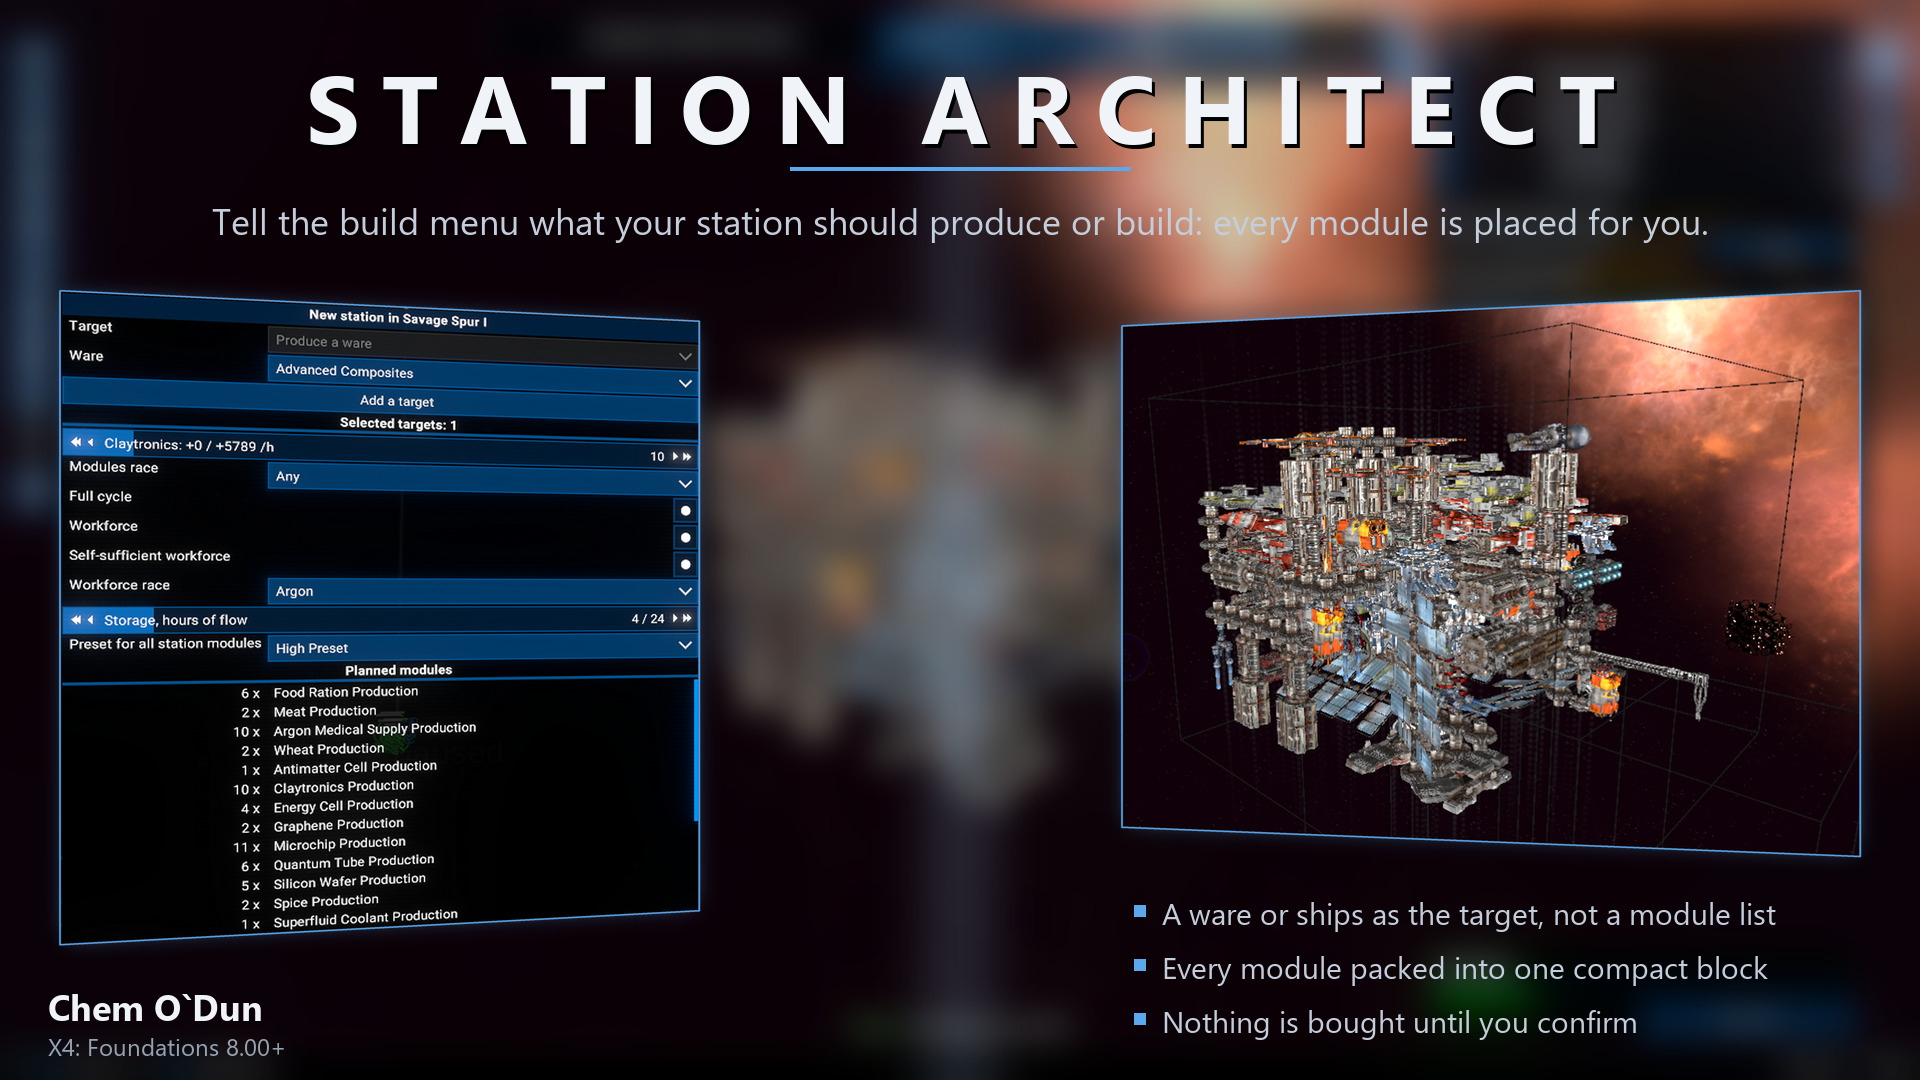
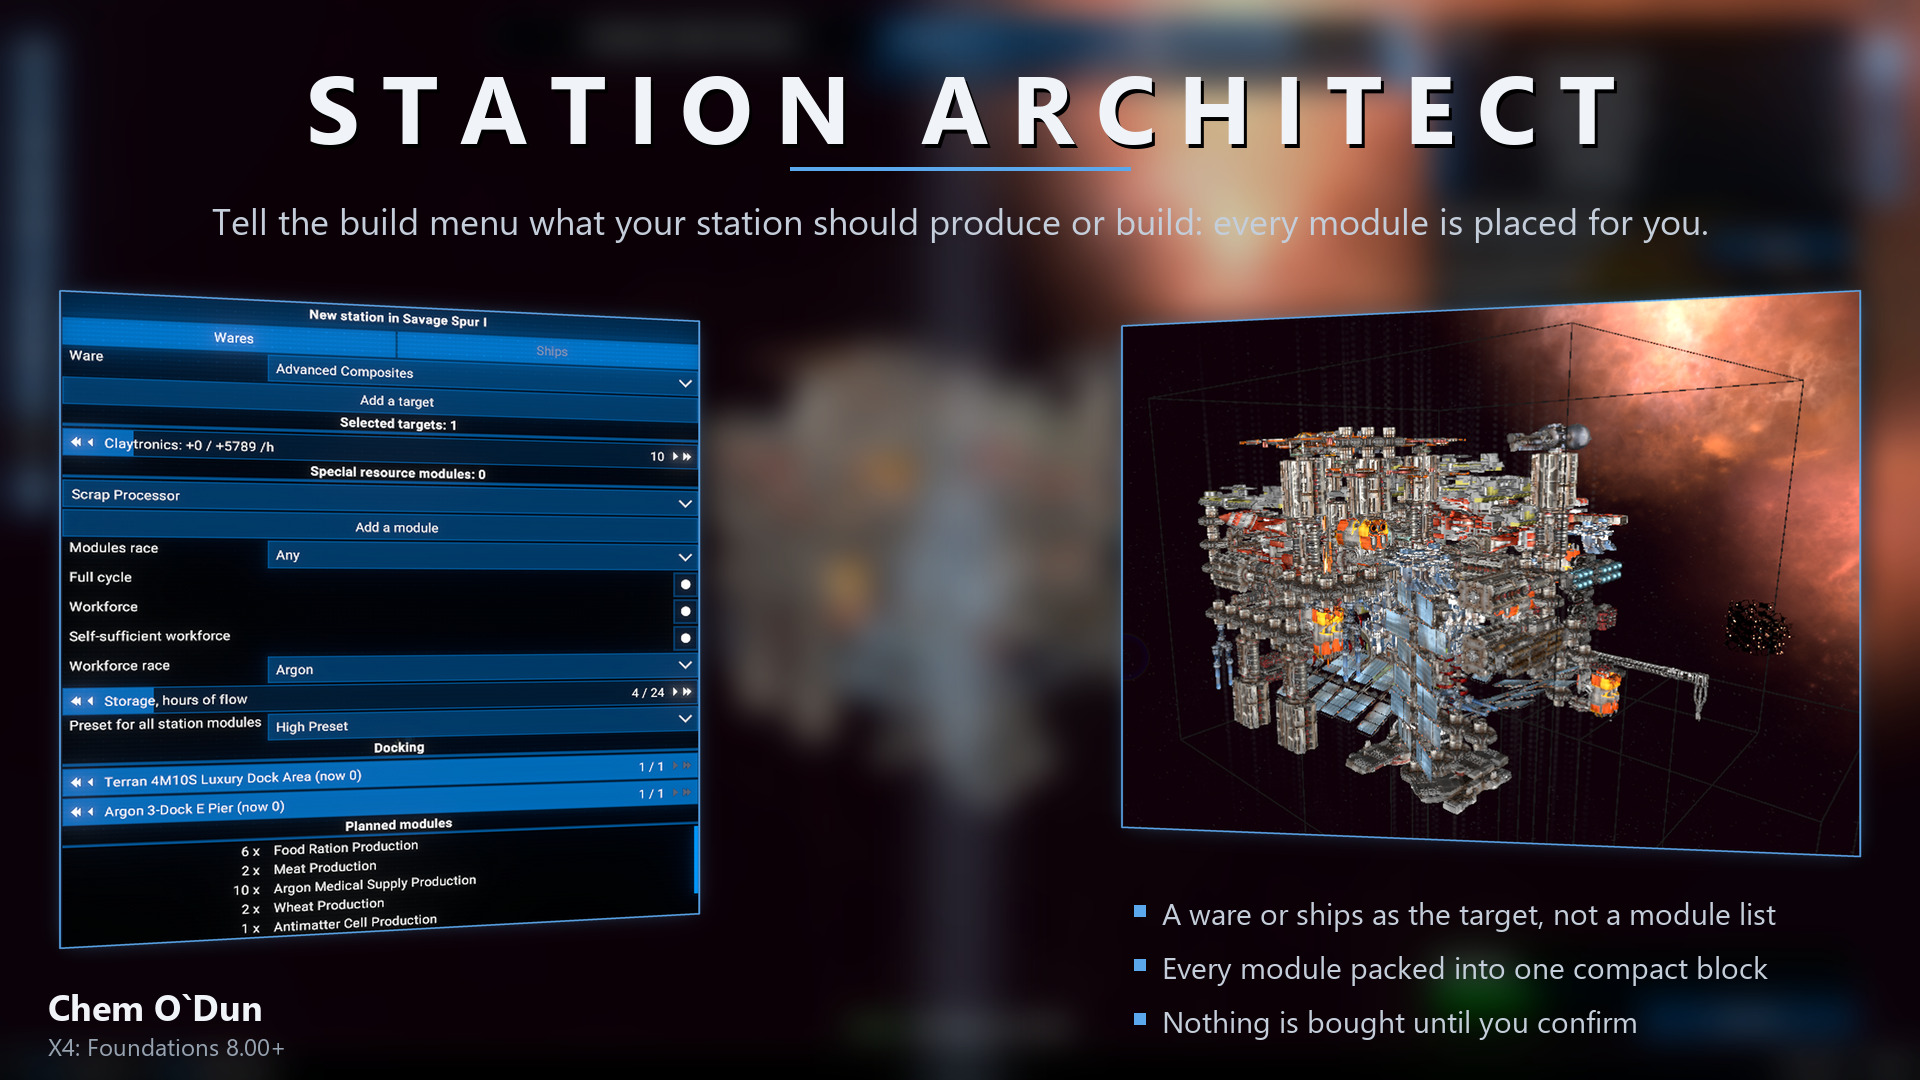
docs: more screenshots added

Changed region(s): [[0.0312, 0.4278, 0.375, 0.8861], [0.0312, 0.275, 0.375, 0.3667]]

diff --git a/README.md b/README.md
@@ -74,6 +74,8 @@ Open the build menu of one of your stations. The Station Architect panel sits un
 
 ![The Wares tab: two Hull Part Production modules with the full cycle and the workforce](docs/images/panel_target.png)
 
+![An existing claytronics station: its target starts at the station's own count, the docks show what it has, and the plan covers its shortfalls](docs/images/panel_existing.png)
+
 ### Ships
 
 Pick a build module from your blueprints, a fabrication bay or a maintenance bay, and press **Add a module**. Every build module kind the station has or you added gets a slider of its count, starting at what the station has; an added kind released at 0 is removed.
@@ -82,7 +84,7 @@ Pick a build module from your blueprints, a fabrication bay or a maintenance bay
 - Under a maintenance bay, one slider per ship size sets the **resupplies per hour** (restocking a ship's ammunition and units). It starts at a tenth of what the bays manage.
 - **now** on a slider is what the station's bays are working on at the moment, per hour.
 
-The plan adds the wares those ships and resupplies use, their production chain under **Full cycle**, and the storage and docks for that flow. The special resource modules, the options and the Docking sliders are the ones of the Wares tab.
+Ships are planned with the game's High loadout, which sets their build time and wares; a bay builds one ship per production line at a time. The plan adds the wares those ships and resupplies use, their production chain under **Full cycle**, and the storage and docks for that flow. The special resource modules, the options and the Docking sliders are the ones of the Wares tab.
 
 ![The Ships tab: an S/M Ship Fabrication Bay at 10 S and 5 M ships per hour, and an L Ship Maintenance Bay](docs/images/panel_ships.png)
 
@@ -91,6 +93,8 @@ The plan adds the wares those ships and resupplies use, their production chain u
 Both tabs have this section. It works with **Full cycle** only and is greyed out without it. Special resource modules (Scrap Processors) are fed by tugs rather than by trade. Pick one and press **Add a module**: its slider sets how many the station has, from its own count up to 10 more, and shows the module's output per hour; released at the station's count it is removed. On an existing station the section starts with the modules it has.
 
 Their scrap metal feeds the scrap recycling modules that make your target wares and your ships' wares; only the rest comes from regular production modules, and a surplus is sold. Tugs bring the raw scrap straight to them, so it adds no docks, piers or storage.
+
+![One Scrap Processor feeding four Scrap Recyclers that make the whole Claytronics target, the Hull Parts surplus sold](docs/images/panel_special.png)
 
 ### Run
 
@@ -106,6 +110,8 @@ Their scrap metal feeds the scrap recycling modules that make your target wares 
 
 3. If the game's editor still refuses a module after a few retries, the run removes every module it placed and starts the placement over, once. A second refusal removes everything again, and the folded panel names the module.
 4. When the run ends the panel folds to its result (placed, failed). Check the plan, change what you like by hand, and press **Confirm module changes** as usual. **Optimize plot** fits the plot to the planned modules, so a plot the run grew is not paid larger than needed. **Reset** starts the target over from what the station has. While a plot's licence is still due (a new plot before its run, or after a **Bill** run, which grows the plot without asking), the panel shows the fee with its own **Buy licence**.
+
+![A finished run: 190 modules placed, 0 failed, the plan waiting for Confirm module changes](docs/images/build_menu_done.png)
 
 ### From the map
 
@@ -154,22 +160,25 @@ In the game's Extension Options, the Station Architect page has a Debug Level se
 ### [1.20] - 2026-11-??
 
 - Added
-  - **Ships** tab: any build module with its count slider, and per ship size a ships per hour or resupplies per hour slider
+  - **Ships** tab: build modules sized by ships per hour and resupplies per hour
   - **Docking** section: dock area and pier count sliders
-  - A module the editor keeps refusing restarts the placement once; a second refusal removes every placed module
+  - A module the editor keeps refusing restarts the placement once
 - Changed
-  - A refused module is retried from a new float; the run no longer slows to one module per frame
   - The Target tab is now the **Wares** tab, in the map dialog too
-  - Ship builds and their supply chain follow the ships per hour, not the build modules' full capacity
-  - Ship build times from each hull's High loadout, with one ship per production line of a build module
-  - Special resource modules only with **Full cycle**, and their scrap metal feeds the ships' wares too
+  - Modules are placed in turns from the bottom up, so the station works from its first turn
+  - A new station grows from its first pier
+  - Every turn ends with the dock areas and piers its trade needs
+  - Habitats come in the later turns
+  - Storage per ware: the smallest module size that holds it
+  - Ship builds and their supply chain follow the ships per hour, not the bays' full capacity
+  - Ship build times from each hull's High loadout and the bay's production lines
+  - Special resource modules only with **Full cycle**
+  - Scrap metal from special resource modules feeds the ships' wares too
   - An existing station without a target gets the docks its own trade needs
+  - A refused module is retried without slowing the rest of the run
   - Faster layout search
-  - Placement order, turn by turn from the bottom up, so the station works after its first turn and each turn adds output: storage and the production chain from energy up, the final product last
-  - A new station grows from its first pier: one pier and one dock area open the first turn; every turn ends with the piers and dock areas its trade needs
-  - Habitats and the modules that only feed them come after 40 % of the turns, spread evenly over the rest
-  - Storage: one module of the smallest size that holds the whole need, several only of the largest size
   - The progress line shows the turn on the grid layout too
+  - License: Apache 2.0 with the Platform Distribution Restriction, see LICENSE.
 - Fixed
   - Game 8.00: piers and dock areas never hung under a connection structure
   - Expanding the panel kept the earlier target instead of reading the station's plan again
